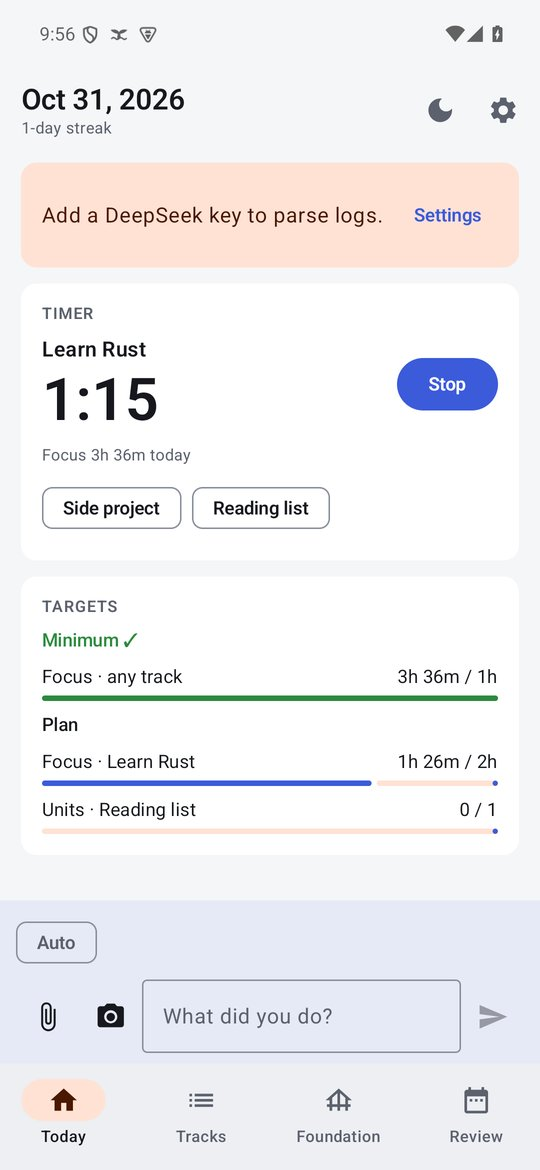
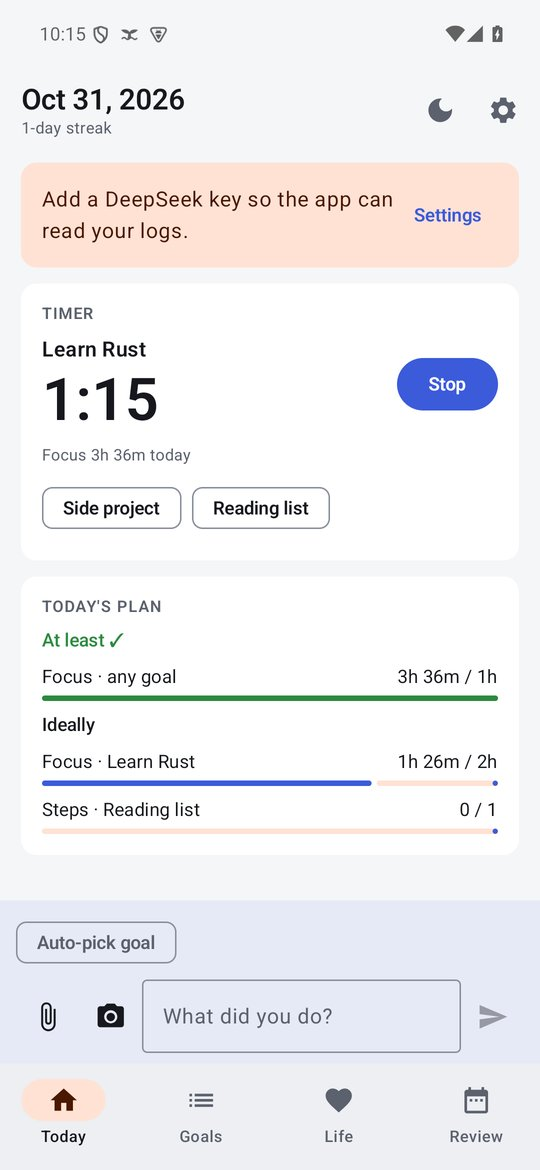
docs: site screenshots and captions for the new names (Goals, Life, Today's plan)

diff --git a/docs/index.html b/docs/index.html
@@ -52,9 +52,9 @@
       <h2>Screens</h2>
     </div>
     <div class="screens">
-      <figure class="phone"><div class="frame"><img src="img/today.jpg" alt="Today screen with a running timer and daily targets"></div><figcaption>Today</figcaption></figure>
+      <figure class="phone"><div class="frame"><img src="img/today.jpg" alt="Today screen with a running timer and today's plan"></div><figcaption>Today</figcaption></figure>
       <figure class="phone"><div class="frame"><img src="img/review.jpg" alt="Weekly review with a summary table"></div><figcaption>Review</figcaption></figure>
-      <figure class="phone"><div class="frame"><img src="img/foundation.jpg" alt="Foundation screen with sleep and savings goals"></div><figcaption>Foundation</figcaption></figure>
+      <figure class="phone"><div class="frame"><img src="img/life.jpg" alt="Life screen with sleep and a savings goal"></div><figcaption>Life</figcaption></figure>
     </div>
   </div>
 </section>
